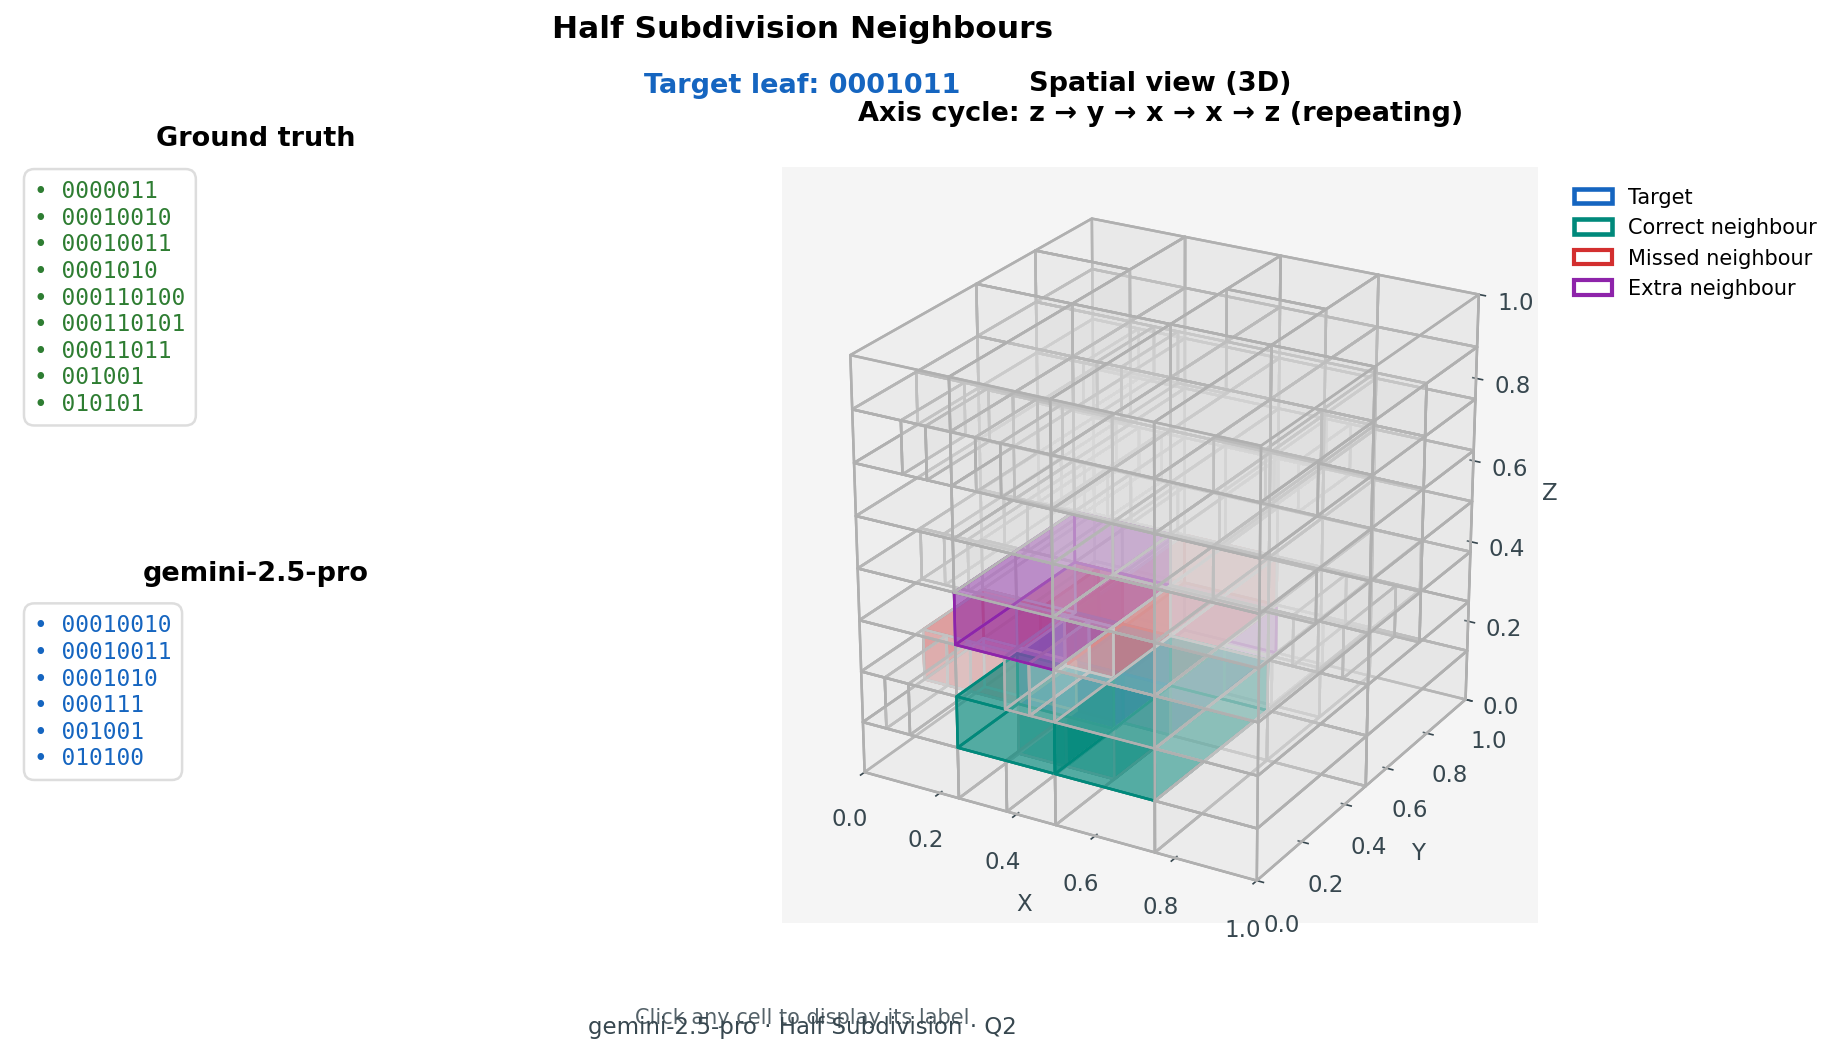
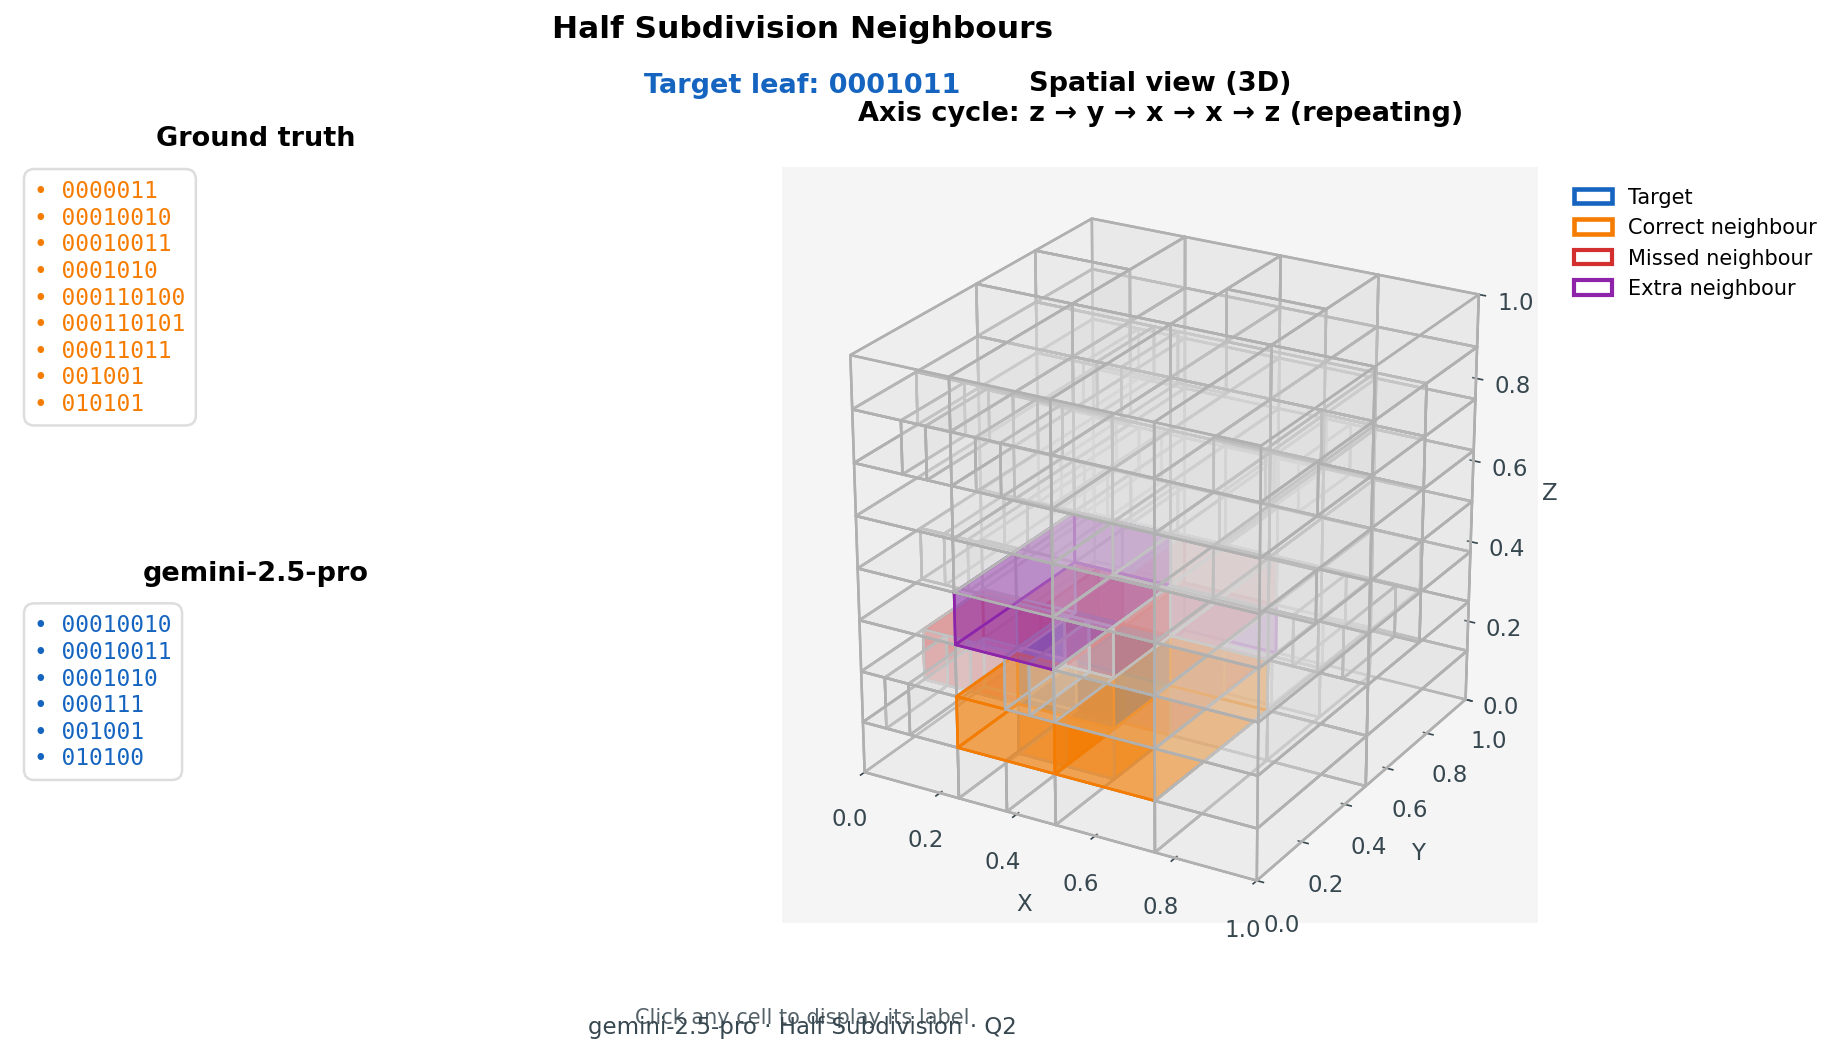
Align correct neighbour colour with ground truth

Changed region(s): [[0.4957, 0.6078, 0.7125, 0.7597], [0.031, 0.1519, 0.0929, 0.3951]]

diff --git a/visualisations/styles.py b/visualisations/styles.py
@@ -13,7 +13,7 @@ COLOURS: dict[str, str] = {
     "answer": "#1565c0",
     "partial": "#f57c00",
     "reference": "#1565c0",
-    "correct_neighbour": "#00897B",
+    "correct_neighbour": "#f57c00",
     "annotation": "#37474f",
     "success_panel": "#E8F5E9",
     "success_text": "#1B5E20",
